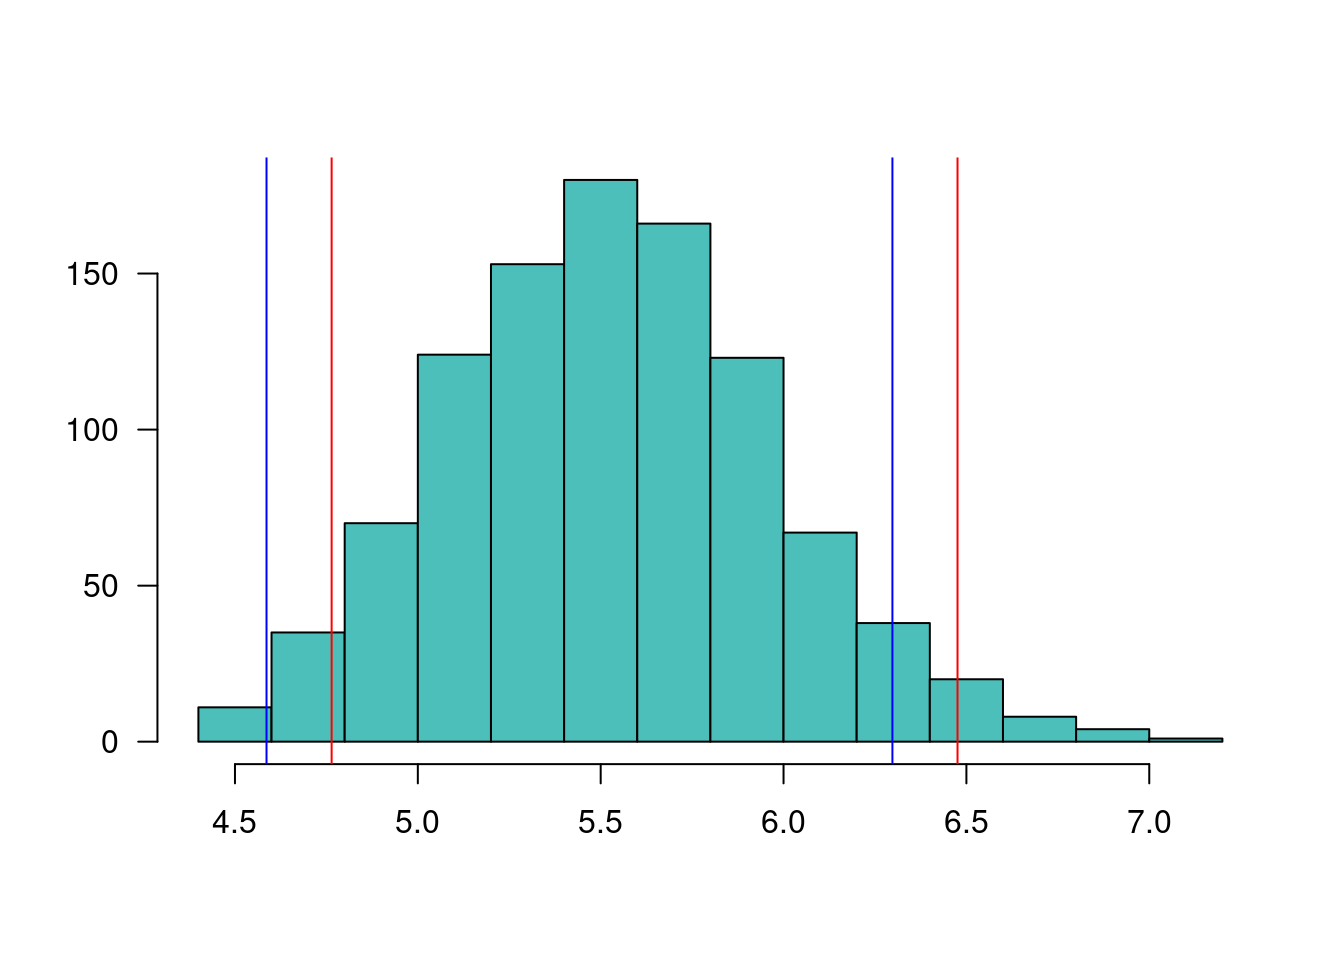
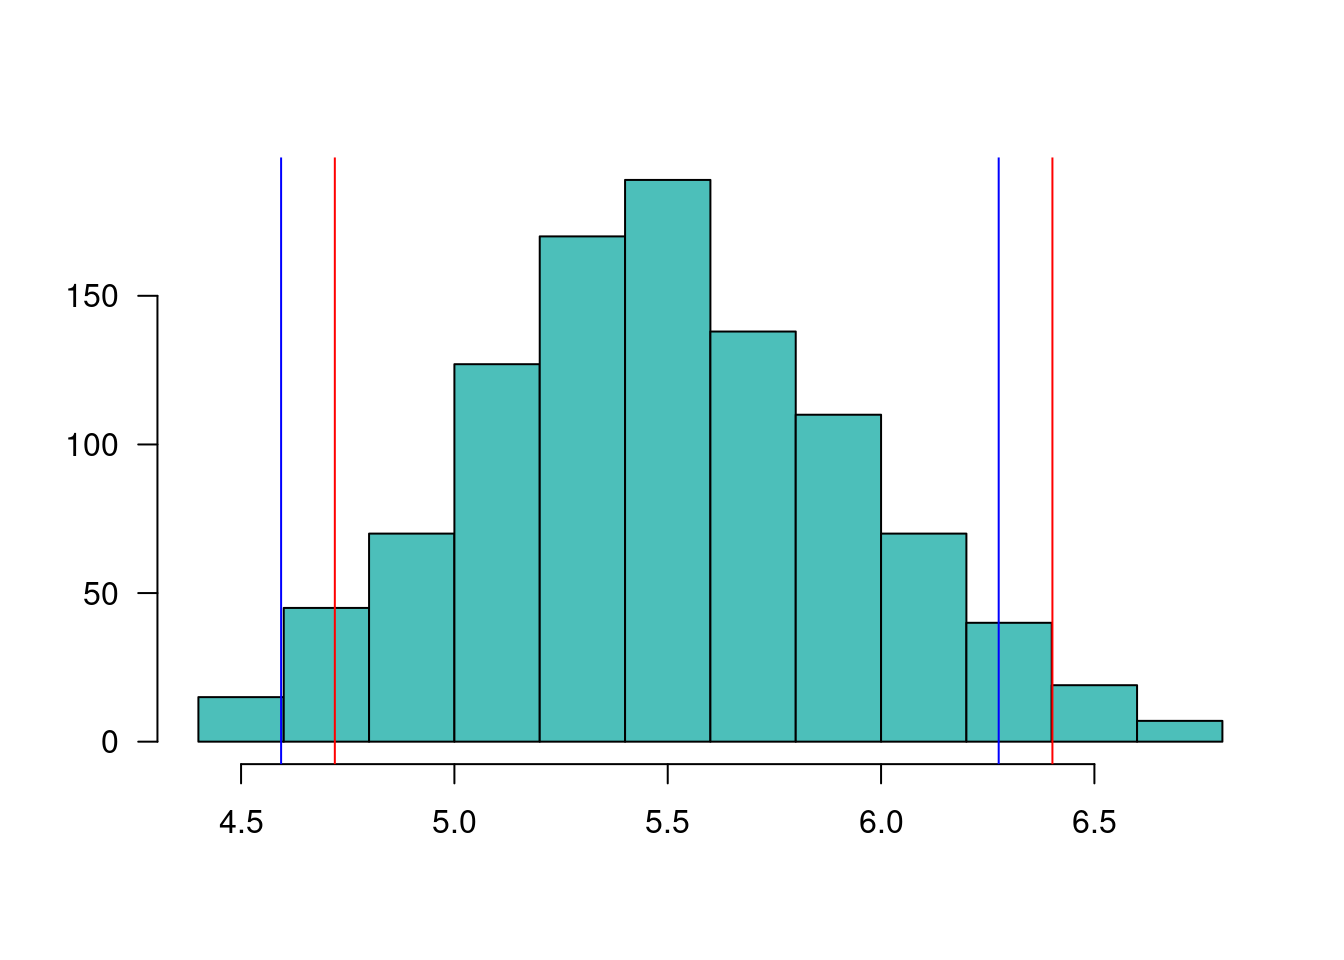
ajustes instructivos guia 4.2

diff --git a/Guia403.html b/Guia403.html
@@ -14,7 +14,7 @@
 
 <title>Pruebas de hipótesis</title>
 
-<script src="site_libs/header-attrs-2.14/header-attrs.js"></script>
+<script src="site_libs/header-attrs-2.13/header-attrs.js"></script>
 <script src="site_libs/jquery-3.6.0/jquery-3.6.0.min.js"></script>
 <meta name="viewport" content="width=device-width, initial-scale=1" />
 <link href="site_libs/bootstrap-3.3.5/css/cosmo.min.css" rel="stylesheet" />
@@ -750,7 +750,8 @@ PdeH</a></p>
 </div>
 <div id="recursos-1" class="section level1">
 <h1><strong>Recursos</strong></h1>
-<p><img src="img/decision.png" /> <br/><br/></p>
+<p><img src="img/decision.png" alt="" width="80%" height="80%" /></p>
+<p><br/><br/></p>
 <div id="introducción-1" class="section level2">
 <h2><strong>Introducción</strong></h2>
 <p><img src="img/pruebas1.png" /></p>
@@ -762,8 +763,8 @@ para ensayar su hipótesis en el campo de la astronomía. Entre 1915 y
 por tres grandes autores: Ronald Fisher(2), Jerzy Neyman(3) y Egon
 Pearson(4). Hoy en día predomina la teoría de Neyman-Pearson (lema de
 Neyman-Pearson).</p>
-<p><img src="img/prueba.jpg" /> Tomada de : <a
-href="https://pixabay.com/es/"
+<p><img src="img/prueba.jpg" /></p>
+<p>Tomada de : <a href="https://pixabay.com/es/"
 class="uri">https://pixabay.com/es/</a></p>
 <p>Una hipótesis estadística es una afirmación o conjetura acerca de los
 parámetros de la distribución de probabilidades de una población. Si la
@@ -1490,12 +1491,12 @@ t.test(pant, pdes,
 
 data:  pant and pdes
 t = 1.2736, df = 15, p-value = 0.8889
-alternative hypothesis: true difference in means is less than 0
+alternative hypothesis: true mean difference is less than 0
 95 percent confidence interval:
      -Inf 19.75467
 sample estimates:
-mean of the differences 
-                 8.3125 </code></pre>
+mean difference 
+         8.3125 </code></pre>
 <p><br/></p>
 <p><strong>Conclusión</strong></p>
 <p>Como el valor-p ( 0.8889) es mayor que nuestro nivel de significancia
@@ -1916,6 +1917,7 @@ valor-p)</p>
 puede afirmar que las personas tienen la creencia que el deporte afecta
 positivamente su imagen.</p>
 <pre class="r"><code>library(BSDA)</code></pre>
+<pre><code>Loading required package: lattice</code></pre>
 <pre><code>
 Attaching package: &#39;BSDA&#39;</code></pre>
 <pre><code>The following object is masked from &#39;package:datasets&#39;:
@@ -2481,7 +2483,8 @@ runs.test(y)</code></pre>
     Runs Test
 
 data:  y
-statistic = 0, runs = 51, n1 = 50, n2 = 50, n = 100, p-value = 1
+statistic = 0.20102, runs = 52, n1 = 50, n2 = 50, n = 100, p-value =
+0.8407
 alternative hypothesis: nonrandomness</code></pre>
 <p><strong>Conclusión</strong></p>
 <p>Como el valor-p (0.3149) es mayor al nivel de significancia, no se
@@ -2516,7 +2519,7 @@ plot(density(x), main=&quot; &quot;, las=1, xlab = &quot; &quot;, ylab=&quot; &q
     Shapiro-Wilk normality test
 
 data:  x
-W = 0.99361, p-value = 0.5442</code></pre>
+W = 0.99491, p-value = 0.737</code></pre>
 <p>Esta prueba no requiere la instalación de paquetes adicionales, pues
 está disponible en la configuración básica de R</p>
 <p>Como el valor-p es superior al nivel de significancia <span
@@ -2532,19 +2535,19 @@ jb.norm.test(x)  # Test de normalidad de Jarque-Bera</code></pre>
     Jarque-Bera test for normality
 
 data:  x
-JB = 2.0272, p-value = 0.3105</code></pre>
+JB = 0.80845, p-value = 0.6485</code></pre>
 <pre class="r"><code>kurtosis.norm.test(x)</code></pre>
 <pre><code>
     Kurtosis test for normality
 
 data:  x
-T = 2.9429, p-value = 0.869</code></pre>
+T = 3.2221, p-value = 0.495</code></pre>
 <pre class="r"><code>skewness.norm.test(x)   </code></pre>
 <pre><code>
     Skewness test for normality
 
 data:  x
-T = 0.24495, p-value = 0.1455</code></pre>
+T = -0.10918, p-value = 0.5095</code></pre>
 <pre class="r"><code># install.packages(&quot;nortets&quot;)
 library(nortest)
 
@@ -2553,13 +2556,13 @@ lillie.test(x) # Kolmogorov-Smirnov</code></pre>
     Lilliefors (Kolmogorov-Smirnov) normality test
 
 data:  x
-D = 0.044129, p-value = 0.4469</code></pre>
+D = 0.047851, p-value = 0.3198</code></pre>
 <pre class="r"><code>pearson.test(x) # chi-cuadrado de Pearson</code></pre>
 <pre><code>
     Pearson chi-square normality test
 
 data:  x
-P = 6.72, p-value = 0.945</code></pre>
+P = 12.16, p-value = 0.5935</code></pre>
 <p><br/><br/></p>
 <p><br/><br/><br/><br/></p>
 </div>

diff --git a/Guia402.html b/Guia402.html
@@ -14,7 +14,7 @@
 
 <title>Estimación por intervalos de confianza</title>
 
-<script src="site_libs/header-attrs-2.14/header-attrs.js"></script>
+<script src="site_libs/header-attrs-2.13/header-attrs.js"></script>
 <script src="site_libs/jquery-3.6.0/jquery-3.6.0.min.js"></script>
 <meta name="viewport" content="width=device-width, initial-scale=1" />
 <link href="site_libs/bootstrap-3.3.5/css/cosmo.min.css" rel="stylesheet" />
@@ -920,7 +920,7 @@ e=3 # personas
 # tamaño de muestra
 n=paqueteDEG::sizemu(qnorm(1-a/2),s2.nota,e)
 round(n,0)  # redondeo a entero</code></pre>
-<pre><code>[1] 195</code></pre>
+<pre><code>[1] 183</code></pre>
 <p><br/><br/><br/></p>
 </div>
 <div id="intervalos-de-confianza-para-la-proporción"
@@ -1569,12 +1569,12 @@ mx=apply(b,1,mean)                 # se calculan m medias por fila</code></pre>
 <pre class="r"><code>ic1=quantile(mx, probs=c(0.025, 0.975)) # se calcula IC método 1
 ic1</code></pre>
 <pre><code>    2.5%    97.5% 
-4.764286 6.475714 </code></pre>
+4.719750 6.401607 </code></pre>
 <p><br/><br/></p>
 <pre class="r"><code>ic2=c(2*mean(mx)-ic1[2], 2*mean(mx)-ic1[1]) # se calcula IC método 2
 ic2</code></pre>
 <pre><code>   97.5%     2.5% 
-4.586269 6.297697 </code></pre>
+4.593836 6.275693 </code></pre>
 <p><br/><br/></p>
 <pre class="r"><code>hist(mx, las=1, main=&quot; &quot;, ylab = &quot; &quot;, xlab = &quot; &quot;, col=c3)
 abline(v=ic1, col=&quot;red&quot;)

diff --git a/site_libs/navigation-1.1/codefolding.js b/site_libs/navigation-1.1/codefolding.js
@@ -19,8 +19,6 @@ window.initializeCodeFolding = function(show) {
   // select all R code blocks
   var rCodeBlocks = $('pre.r, pre.python, pre.bash, pre.sql, pre.cpp, pre.stan, pre.julia, pre.foldable');
   rCodeBlocks.each(function() {
-    // skip if the block has fold-none class
-    if ($(this).hasClass('fold-none')) return;
 
     // create a collapsable div to wrap the code in
     var div = $('<div class="collapse r-code-collapse"></div>');
